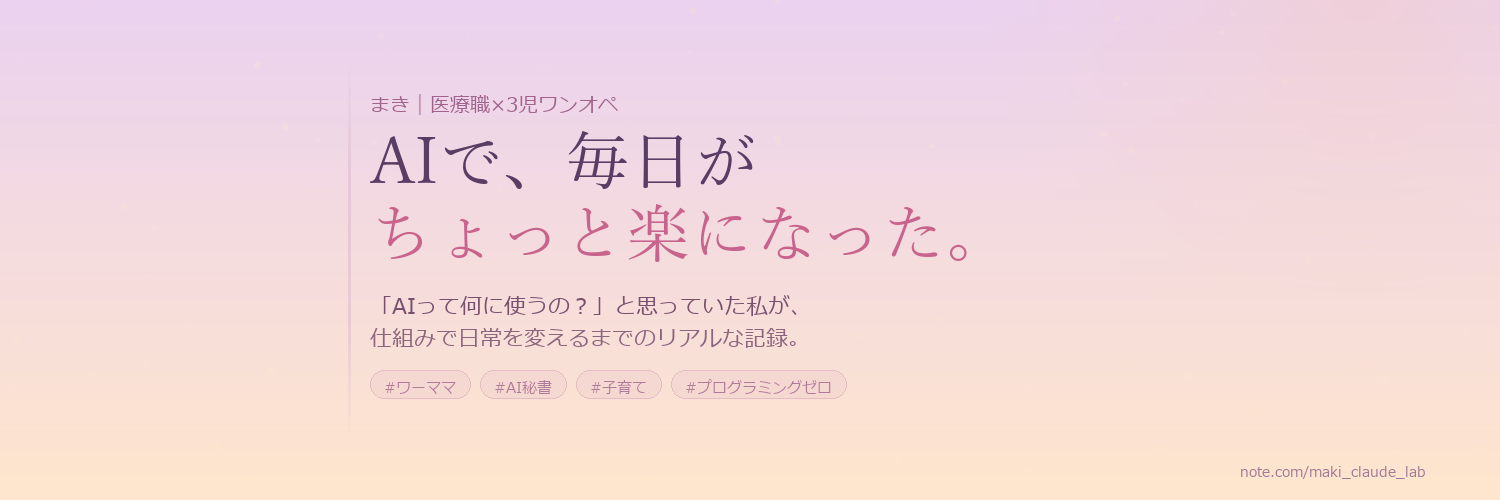
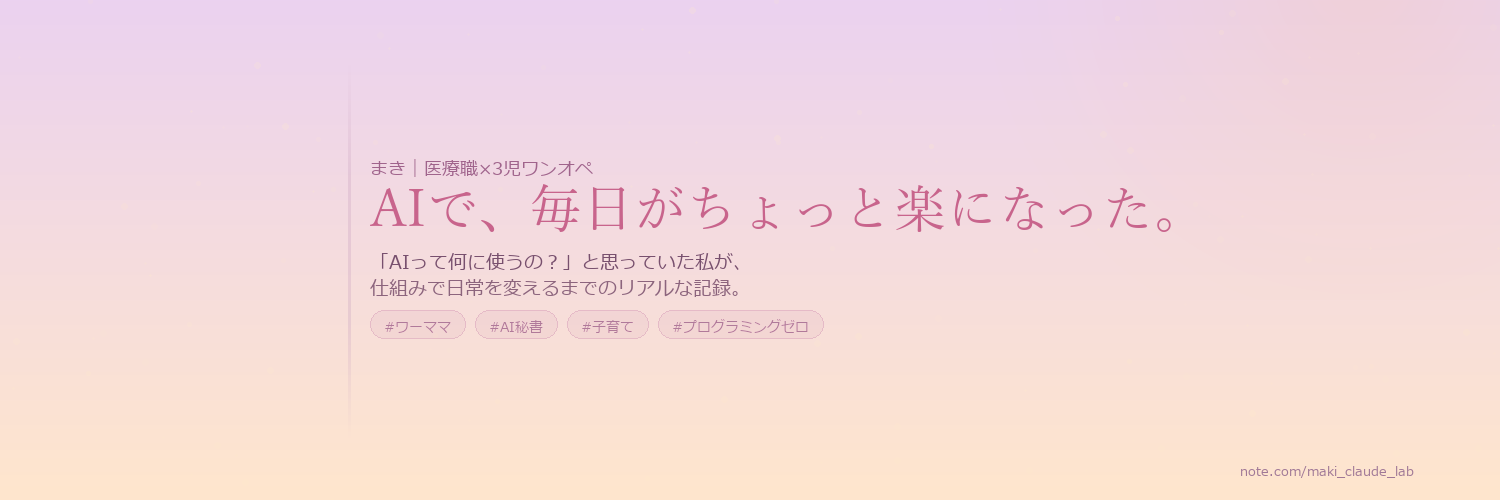
広報部：ヘッダー画像のテキスト位置をnote表示範囲内に修正

diff --git a/generate_maki_header.py b/generate_maki_header.py
@@ -82,31 +82,30 @@ def load_font(paths, size):
                 pass
     return ImageFont.load_default()
 
-font_tag   = load_font(font_paths_goth, 20)
-font_title = load_font(font_paths_min,  64)
-font_sub   = load_font(font_paths_goth, 22)
-font_badge = load_font(font_paths_goth, 15)
-font_site  = load_font(font_paths_goth, 14)
+font_tag   = load_font(font_paths_goth, 18)
+font_title = load_font(font_paths_min,  52)
+font_sub   = load_font(font_paths_goth, 19)
+font_badge = load_font(font_paths_goth, 14)
+font_site  = load_font(font_paths_goth, 13)
 
-# --- テキスト（x=370からアイコン被り回避）---
+# --- テキスト（x=370・縦中央y=150〜340に集中）---
 tx = 370
 
 # タグ行
-draw.text((tx, 90), "まき｜医療職×3児ワンオペ", font=font_tag, fill=(160, 100, 140))
+draw.text((tx, 155), "まき｜医療職×3児ワンオペ", font=font_tag, fill=(160, 100, 140))
 
-# メインコピー（2行）
-draw.text((tx, 128), "AIで、毎日が",      font=font_title, fill=(90, 60, 100))
-draw.text((tx, 200), "ちょっと楽になった。", font=font_title, fill=(200, 100, 140))
+# メインコピー（1行にまとめてコンパクトに）
+draw.text((tx, 182), "AIで、毎日がちょっと楽になった。", font=font_title, fill=(200, 100, 140))
 
 # サブコピー
-draw.text((tx, 290), "「AIって何に使うの？」と思っていた私が、", font=font_sub, fill=(120, 80, 110))
-draw.text((tx, 322), "仕組みで日常を変えるまでのリアルな記録。",  font=font_sub, fill=(140, 100, 125))
+draw.text((tx, 248), "「AIって何に使うの？」と思っていた私が、",   font=font_sub, fill=(120, 80, 110))
+draw.text((tx, 274), "仕組みで日常を変えるまでのリアルな記録。",   font=font_sub, fill=(140, 100, 125))
 
 # バッジ
 badges = ["#ワーママ", "#AI秘書", "#子育て", "#プログラミングゼロ"]
 badge_layer = Image.new("RGBA", (W, H), (0, 0, 0, 0))
 bdraw = ImageDraw.Draw(badge_layer)
-bx, by = tx, 370
+bx, by = tx, 310
 for b in badges:
     bw = int(font_badge.getlength(b)) + 28
     bdraw.rounded_rectangle([bx, by, bx + bw, by + 28], radius=14,